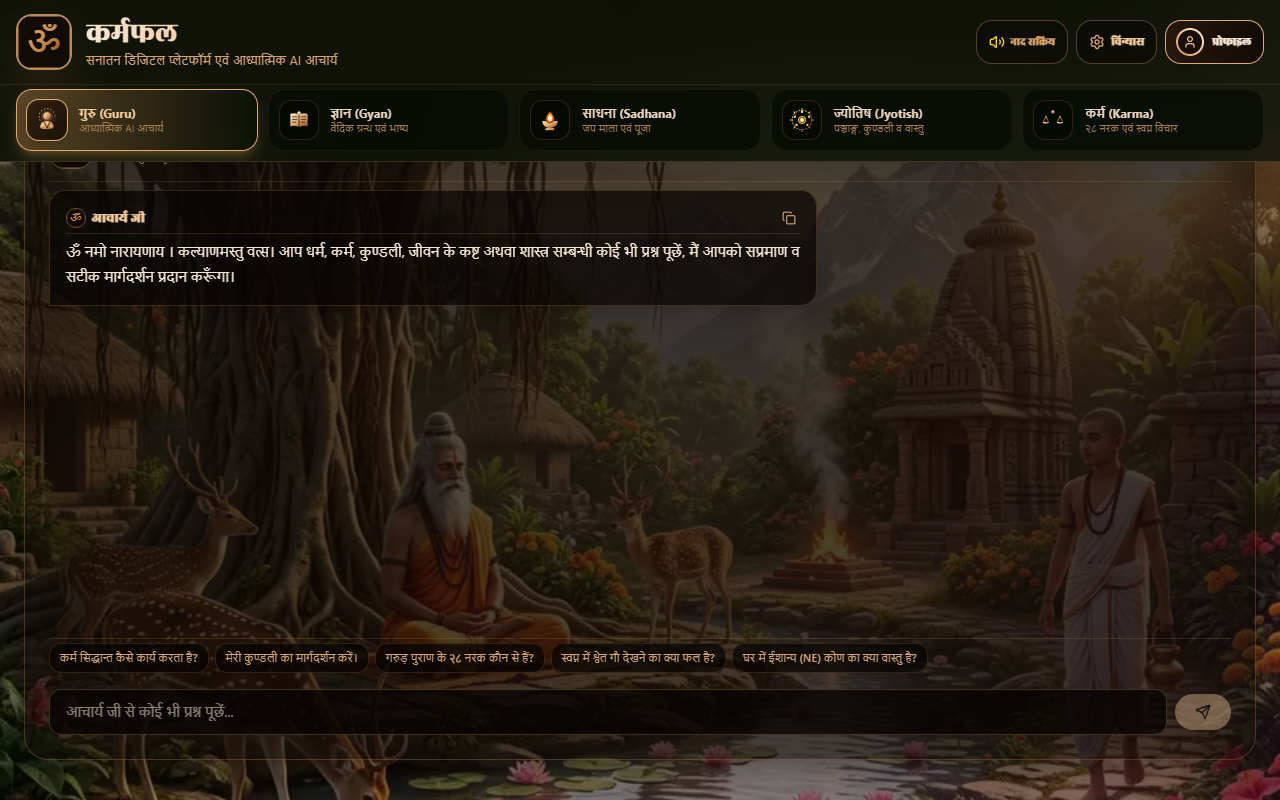
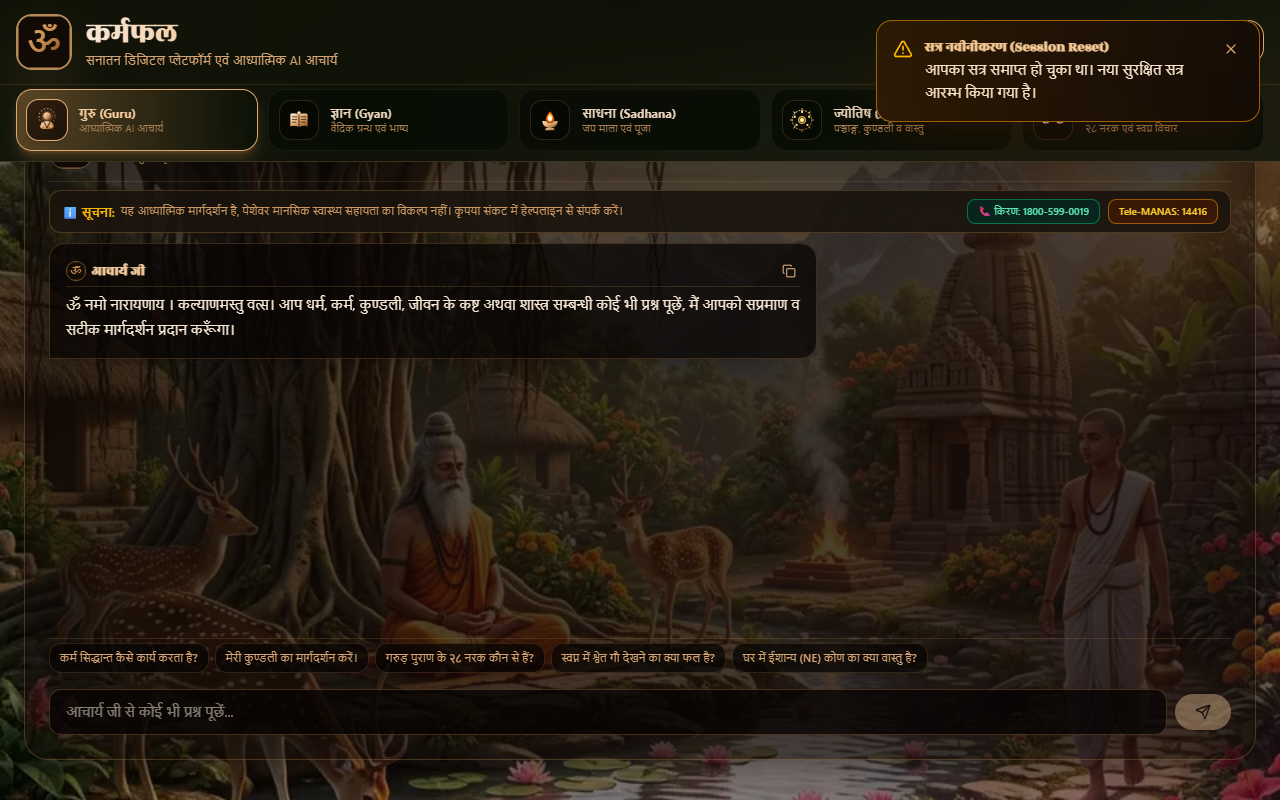
fix(ci): resolve i18n string regression and finalize verified scripture corpus

Changed region(s): [[0.0312, 0.2188, 0.9688, 0.4688], [0.6875, 0.0, 1.0, 0.1562]]

diff --git a/karmphal-web/src/components/TheologicalChatbot/SanatanAIAcharya.jsx b/karmphal-web/src/components/TheologicalChatbot/SanatanAIAcharya.jsx
@@ -2,10 +2,12 @@ import React, { useState, useRef, useEffect } from 'react';
 import { Send, Copy, Check, Trash2, Loader2 } from 'lucide-react';
 import { useChat } from '../../context/useChat';
 import { useToast, useConfirm } from '../../context/useToast';
+import { useTranslation } from '../../services/languageService';
 const AcharyaMarkdown = React.lazy(() => import('./AcharyaMarkdown'));
 import guruAvatar, { handleImageError, OM_FALLBACK_SVG } from '../../assets';
 
 export default function SanatanAIAcharya({ panchangData }) {
+  const { t } = useTranslation();
   const {
     messages,
     isLoading,
@@ -138,23 +140,23 @@ export default function SanatanAIAcharya({ panchangData }) {
         {/* Persistent Crisis & Professional Care Disclaimer Banner (Part D.4) */}
         <div className="bg-[#1a140d]/90 border border-[#C58B4E]/30 px-3 py-2 rounded-xl mb-2.5 flex flex-wrap items-center justify-between gap-2 text-[11px] text-[#E0A96D]/90 shadow-inner shrink-0">
           <div className="flex items-center gap-1.5 flex-1 min-w-[200px]">
-            <span className="text-amber-400 font-semibold text-xs shrink-0">ℹ सूचना:</span>
-            <span>यह आध्यात्मिक मार्गदर्शन है, पेशेवर मानसिक स्वास्थ्य सहायता का विकल्प नहीं। कृपया संकट में हेल्पलाइन से संपर्क करें।</span>
+            <span className="text-amber-400 font-semibold text-xs shrink-0">{t.crisisNoticePrefix}</span>
+            <span>{t.crisisDisclaimer}</span>
           </div>
           <div className="flex items-center gap-2 shrink-0">
             <a
               href="tel:18005990019"
               className="inline-flex items-center gap-1 px-2.5 py-1 rounded-lg bg-emerald-950/70 border border-emerald-500/50 text-emerald-300 font-medium hover:bg-emerald-900/90 transition-all active:scale-95 text-[10px]"
-              title="KIRAN 24/7 मानसिक स्वास्थ्य हेल्पलाइन पर कॉल करें (नि:शुल्क)"
+              title={t.kiranHelplineTitle}
             >
-              📞 किरण: 1800-599-0019
+              {t.kiranHelplineLabel}
             </a>
             <a
               href="tel:14416"
               className="inline-flex items-center gap-1 px-2.5 py-1 rounded-lg bg-amber-950/70 border border-amber-500/50 text-amber-300 font-medium hover:bg-amber-900/90 transition-all active:scale-95 text-[10px]"
-              title="Tele-MANAS राष्ट्रीय मानसिक स्वास्थ्य हेल्पलाइन"
+              title={t.teleManasTitle}
             >
-              Tele-MANAS: 14416
+              {t.teleManasLabel}
             </a>
           </div>
         </div>
@@ -241,7 +243,7 @@ export default function SanatanAIAcharya({ panchangData }) {
                         <span className="font-dharmik font-bold text-[#F3CA9D] text-xs sm:text-sm flex items-center gap-1.5">
                           {msg.isError ? (
                             <span className="text-amber-400 font-sans font-medium text-xs flex items-center gap-1">
-                              ⚠ सम्पर्क त्रुटि (Connection Notice)
+                              {t.connNotice}
                             </span>
                           ) : (
                             <>
@@ -257,7 +259,7 @@ export default function SanatanAIAcharya({ panchangData }) {
                               <span>आचार्य जी</span>
                               {msg.isCrisis && (
                                 <span className="ml-2 px-2 py-0.5 rounded text-[10px] bg-rose-500/20 text-rose-300 border border-rose-500/40">
-                                  सुरक्षा एवं सहायता
+                                  {t.safetySupportBadge}
                                 </span>
                               )}
                             </>
@@ -296,18 +298,18 @@ export default function SanatanAIAcharya({ panchangData }) {
                     {/* Quick Helpline Tap-to-Call Buttons for Crisis Flagged Responses */}
                     {msg.isCrisis && (
                       <div className="mt-3 pt-2.5 border-t border-rose-500/30 flex flex-wrap items-center gap-2">
-                        <span className="text-[11px] font-semibold text-rose-300">तत्काल नि:शुल्क सहायता:</span>
+                        <span className="text-[11px] font-semibold text-rose-300">{t.immediateHelpLabel}</span>
                         <a
                           href="tel:18005990019"
                           className="inline-flex items-center gap-1 px-2.5 py-1 rounded-lg bg-emerald-600 hover:bg-emerald-500 text-white font-medium text-[11px] shadow transition-all active:scale-95"
                         >
-                          📞 KIRAN: 1800-599-0019
+                          {t.kiranCallBtn}
                         </a>
                         <a
                           href="tel:14416"
                           className="inline-flex items-center gap-1 px-2.5 py-1 rounded-lg bg-sky-700 hover:bg-sky-600 text-white font-medium text-[11px] shadow transition-all active:scale-95"
                         >
-                          📞 Tele-MANAS: 14416
+                          {t.teleManasCallBtn}
                         </a>
                         <a
                           href="tel:112"

diff --git a/karmphal-backend/services/counseling.service.js b/karmphal-backend/services/counseling.service.js
@@ -60,29 +60,37 @@ function classifyEmotionAndIntent(userMessage) {
   // Direct, indirect, existential hopelessness, and hypothetical phrasing
   // -------------------------------------------------------------
   const crisisPatterns = [
-    // Direct suicidal phrases (English & Hinglish)
-    /\b(suicide|suicidal|kill\s*myself|end\s*my\s*life|ending\s*my\s*life|die\s*by\s*suicide)\b/i,
-    /\b(mar\s*jana\s*chahta|mar\s*jane\s*ka\s*man|jaan\s*de\s*du|jaan\s*le\s*lu|khudkushi|atmahatya|atma\s*hatya)\b/i,
+    // Direct suicidal phrases (English, Hindi, Hinglish with typos)
+    /\b(sui[cs]ides?|sui[cs]idal|sucide|suecide)\b/i,
+    /\b(kill\s*myself|end\s*my\s*life|ending\s*my\s*life|die\s*by\s*suicide)\b/i,
+    /\b(mar\s*jana\s*(?:chahta|chahti|h\b|hai)|marna\s*(?:chahta|chahti|h\b|hai)|mujhe\s*marna\s*h\b|mar\s*jane\s*ka\s*man|jaan\s*de\s*(?:du|dungi|dunga)|jaan\s*le\s*lu|khudkushi|atmahatya|atma\s*hatya)\b/i,
     
     // Devanagari direct phrases
-    /(आत्महत्या|आत्मघात|खुदकुशी|खुद\s*को\s*मार|मरना\s*चाहता|मरने\s*का\s*मन|जान\s*दे\s*दूँ|जान\s*ले\s*लूँ)/u,
+    /(आत्महत्या|आत्मघात|खुदकुशी|खुद\s*को\s*मार|मरना\s*चाहता|मरना\s*चाहती|मरने\s*का\s*मन|जान\s*दे\s*दूँ|जान\s*ले\s*लूँ|प्राण\s*त्याग\s*दूँ)/u,
     
-    // Lethal means / Self-harm methods
-    /\b(take\s*poison|swallow\s*pills|hang\s*myself|slit\s*my\s*wrist|jump\s*off|jump\s*from\s*bridge|jump\s*from\s*roof)\b/i,
-    /\b(zeher\s*kha|faansi\s*laga|chhat\s*se\s*kood|chhat\s*se\s*jump|nas\s*kaat)\b/i,
-    /(जहर\s*खा|फांसी\s*लगा|छत\s*से\s*कूद|नदी\s*में\s*कूद|नस\s*काट)/u,
+    // Lethal means / Self-harm methods (with 'the/a' and participle variants)
+    /\b(take\s*poison|swallow\s*pills|hang\s*myself|slit\s*my\s*wrists?)\b/i,
+    /\b(jump(?:ing)?\s*(?:off|from)\s*(?:a\s*|the\s*)?(?:bridge|roof|building|balcony|terrace|cliff|train|window))\b/i,
+    /\b(zeher\s*kha|faansi\s*laga|chhat\s*se\s*(?:kood|jump)|nas\s*kaat)\b/i,
+    /(जहर\s*खा|फांसी\s*लगा|छत\s*से\s*(?:कूद|छलांग)|नदी\s*में\s*कूद|नस\s*काट)/u,
 
-    // Existential hopelessness / Wanting life to end
+    // Existential hopelessness / Wanting life to end / Negations / Metaphors
     /\b(i\s*want\s*to\s*die|wish\s*i\s*were\s*dead|better\s*off(?:\s+\w+){0,4}\s+dead|no\s*reason\s*to\s*live|point\s*of\s*living|tired\s*of\s*living|tired\s*of\s*existing)\b/i,
-    /\b(jeene\s*ka(?:\s+\w+){0,3}\s+man\s*nahi|zindagi\s*khatam\s*karna|kya\s*fayda\s*is\s*zindagi|koi\s*jeene\s*ki\s*wajah\s*nahi|sab\s*khatam\s*kar\s*du)\b/i,
-    /(जीने\s*का(?:\s+[\u0900-\u097F]+){0,3}\s+मन\s*नहीं|ज़िन्दगी\s*खत्म\s*करना|जिंदगी\s*से\s*थक|जीने\s*की\s*कोई\s*वजह\s*नहीं|सब\s*समाप्त\s*कर\s*दूँ)/u,
+    /\b(can['’]?t\s*go\s*on(?:\s*anymore)?|can['’]?t\s*take\s*(?:this|it)\s*anymore|cannot\s*go\s*on|cannot\s*take\s*(?:this|it)\s*anymore)\b/i,
+    /\b(don['’]?t\s*(?:want|wish)\s*to\s*live|no\s*will\s*to\s*live|lost\s*(?:the\s*)?will\s*to\s*live)\b/i,
+    /\b(jeene\s*ka(?:\s+\w+){0,3}\s*man\s*nahi|zindagi\s*(?:khatam|khatm)|kya\s*fayda\s*is\s*zindagi|koi\s*(?:bhi\s*)?jeene\s*ki\s*wajah\s*nahi|koi\s*rasta\s*nahi(?:\s*\w+){0,3}\s*jeene)\b/i,
+    /\b(sab\s*(?:khatam|khatm|samapt)\s*k[a]?r\s*(?:du|raha|lunga|dena))\b/i,
+    /(जीने\s*का(?:\s+[\u0900-\u097F]+){0,3}\s+मन\s*नहीं|ज़िन्दगी\s*(?:खत्म|समाप्त)|जिंदगी\s*से\s*थक|जीने\s*की\s*कोई\s*वजह\s*नहीं|जीना\s*नहीं\s*चाहता)/u,
+    /(सब\s*(?:खत्म|समाप्त)\s*(?:कर\s*दूँ|कर\s*लूँगा|करूँगा|करने\s*जा\s*रहा)|मुझसे\s*नहीं\s*सहा\s*जाता|दर्द\s*नहीं\s*सहा\s*जाता)/u,
     /\b(nobody\s*will\s*miss\s*me|i\s*am\s*a\s*burden|want\s*to\s*disappear\s*forever|cannot\s*take\s*this\s*pain\s*anymore)\b/i,
+    /\b(hamesha\s*ke\s*liye\s*so\s*jana|sleep\s*forever\s*and\s*never\s*wake|is\s*sharir\s*se\s*mukti\s*chahta)\b/i,
+    /(हमेशा\s*के\s*लिए\s*सो\s*जाना|शरीर\s*से\s*मुक्ति\s*चाहता)/u,
 
     // Hypothetical & Philosophical queries on self-harm
-    /\b(if\s*(?:i|someone)\s*(?:commits?\s*suicide|ends?\s*(?:my|their)\s*life))\b/i,
-    /\b(agar\s*(?:main|koi)\s*(?:atmahatya|suicide|mar\s*jaye))\b/i,
+    /\b(if\s*(?:i|someone)\s*(?:commits?\s*sui[cs]ide|ends?\s*(?:my|their)\s*life))\b/i,
+    /\b(agar\s*(?:main|koi)\s*(?:atmahatya|sui[cs]ide|mar\s*jaye))\b/i,
     /(अगर\s*(?:कोई|मैं)\s*(?:आत्महत्या|खुदकुशी|प्राण\s*त्याग))/u,
-    /\b(is\s*it\s*(?:a\s*sin|wrong)\s*to\s*kill\s*oneself|what\s*happens\s*to\s*soul\s*after\s*suicide)\b/i,
+    /\b(is\s*it\s*(?:a\s*sin|wrong)\s*to\s*kill\s*oneself|what\s*happens\s*to\s*soul\s*after\s*sui[cs]ide)\b/i,
     /(आत्महत्या\s*करने\s*पर\s*क्या\s*होता|खुदकुशी\s*पाप\s*है\s*क्या)/u,
 
     // Threat to harm others

diff --git a/karmphal-backend/tests/counseling.service.test.js b/karmphal-backend/tests/counseling.service.test.js
@@ -59,6 +59,50 @@ describe('Scripture-Grounded Counseling Service Unit Tests', () => {
       });
     });
 
+    describe('Adversarial Self-Harm & False-Positive Regression Suite (18 Scenarios)', () => {
+      const adversarialCases = [
+        // 1. Typos
+        { id: 'TYPO-1', input: 'mujhe marna h bs', expectedCrisis: true },
+        { id: 'TYPO-2', input: 'zindagi khatm krne ka man kr raha h ab', expectedCrisis: true },
+        { id: 'TYPO-3', input: 'suiside krne ki soch rha hu', expectedCrisis: true },
+
+        // 2. Negated statements / Complex expressions
+        { id: 'NEG-1', input: "I don't want to die but I can't go on anymore", expectedCrisis: true },
+        { id: 'NEG-2', input: "I don't wish to live like this anymore, everything hurts", expectedCrisis: true },
+        { id: 'NEG-3', input: "Mujhe marna to nahi tha par ab koi rasta nahi dikh raha jeene ka", expectedCrisis: true },
+
+        // 3. Metaphorical language
+        { id: 'META-1', input: 'I want to disappear forever and never wake up', expectedCrisis: true },
+        { id: 'META-2', input: 'Bas hamesha ke liye so jana chahta hu taaki sab khatam ho jaye', expectedCrisis: true },
+        { id: 'META-3', input: 'Is sharir se mukti chahta hu hamesha ke liye, dard seh nahi sakta', expectedCrisis: true },
+
+        // 4. Genuine spiritual question with buried crisis signal
+        { id: 'BURIED-1', input: 'गीता में मोक्ष का क्या विधान है? क्योंकि अब मेरा इस दुनिया में दम घुट रहा है और मैं सब खत्म करने जा रहा हूँ।', expectedCrisis: true },
+        { id: 'BURIED-2', input: 'What does Krishna say about karma? I feel like jumping from the roof because my karma is too dark.', expectedCrisis: true },
+
+        // 5. Gradual escalation across conversation (simulated inputs)
+        { id: 'CONV-STEP-1', input: 'जीवन में बहुत कठिनाइयाँ आ रही हैं।', expectedCrisis: false },
+        { id: 'CONV-STEP-2', input: 'हर तरफ से निराशा ही हाथ लग रही है, कुछ समझ नहीं आ रहा।', expectedCrisis: false },
+        { id: 'CONV-STEP-3', input: 'अब मुझसे नहीं सहा जाता, आज रात सब समाप्त कर लूँगा।', expectedCrisis: true },
+
+        // 6. False-Positive risks (Academic/philosophical questions about death/mortality - MUST NOT trigger crisis!)
+        { id: 'FP-1', input: 'गीता में मृत्यु के बारे में क्या कहा गया है?', expectedCrisis: false },
+        { id: 'FP-2', input: 'What is the concept of death and reincarnation in Katha Upanishad?', expectedCrisis: false },
+        { id: 'FP-3', input: 'महाभारत के युद्ध में इतने लोगों की मृत्यु क्यों हुई? क्या यह नियति थी?', expectedCrisis: false },
+        { id: 'FP-4', input: 'गरुड़ पुराण में यमलोक और मृत्यु के पश्चात आत्मा की यात्रा का क्या वर्णन है?', expectedCrisis: false }
+      ];
+
+      it.each(adversarialCases)('$id: accurately handles "$input" (expectedCrisis: $expectedCrisis)', ({ input, expectedCrisis }) => {
+        const result = counselingService.classifyEmotionAndIntent(input);
+        expect(result.isCrisis).toBe(expectedCrisis);
+        if (expectedCrisis) {
+          expect(result.category).toBe('self-harm-risk');
+        } else {
+          expect(result.category).not.toBe('self-harm-risk');
+        }
+      });
+    });
+
     describe('Non-Crisis Mental Health & Emotional Categories (Part D.5)', () => {
       it('correctly classifies anxiety/despair without triggering crisis', () => {
         const phrases = [

diff --git a/karmphal-web/src/services/languageService.js b/karmphal-web/src/services/languageService.js
@@ -84,6 +84,17 @@ export const TRANSLATIONS = {
     detectingGpsText: 'जीपीएस स्थान प्राप्त किया जा रहा है...',
     copyAnswer: 'उत्तर प्रतिलिपि बनाएँ',
     voiceSpeak: 'वाणी द्वारा श्रवण करें',
+    crisisNoticePrefix: 'ℹ सूचना:',
+    crisisDisclaimer: 'यह आध्यात्मिक मार्गदर्शन है, पेशेवर मानसिक स्वास्थ्य सहायता का विकल्प नहीं। कृपया संकट में हेल्पलाइन से संपर्क करें।',
+    kiranHelplineLabel: '📞 किरण: 1800-599-0019',
+    kiranHelplineTitle: 'KIRAN 24/7 मानसिक स्वास्थ्य हेल्पलाइन पर कॉल करें (नि:शुल्क)',
+    teleManasLabel: 'Tele-MANAS: 14416',
+    teleManasTitle: 'Tele-MANAS राष्ट्रीय मानसिक स्वास्थ्य हेल्पलाइन',
+    connNotice: '⚠ सम्पर्क त्रुटि (Connection Notice)',
+    safetySupportBadge: 'सुरक्षा एवं सहायता',
+    immediateHelpLabel: 'तत्काल नि:शुल्क सहायता:',
+    kiranCallBtn: '📞 KIRAN: 1800-599-0019',
+    teleManasCallBtn: '📞 Tele-MANAS: 14416',
 
     // Gyan Section
     gyanHeroBadge: 'द्वितीय विभाग: ज्ञान',
@@ -248,6 +259,17 @@ export const TRANSLATIONS = {
     detectingGpsText: 'जीपीएसस्थानं प्राप्यते...',
     copyAnswer: 'उत्तरं प्रतिलिपीकुरु',
     voiceSpeak: 'वाण्या शृणोतु',
+    crisisNoticePrefix: 'ℹ सूचना:',
+    crisisDisclaimer: 'इदम् आध्यात्मिकं मार्गदर्शनमस्ति, न तु व्यावसायिक मानसिक स्वास्थ्य साहाय्यस्य विकल्पः। सङ्कटे हेल्पलाइन सेवां सम्पर्कं कुर्वन्तु।',
+    kiranHelplineLabel: '📞 किरण: १८००-५९९-००१९',
+    kiranHelplineTitle: 'KIRAN मानसिक स्वास्थ्य हेल्पलाइन सेवां सम्पृच्छतु (निःशुल्कम्)',
+    teleManasLabel: 'Tele-MANAS: १४४१६',
+    teleManasTitle: 'Tele-MANAS राष्ट्रिय मानसिक स्वास्थ्य हेल्पलाइन',
+    connNotice: '⚠ सम्पर्क त्रुटिः (Connection Notice)',
+    safetySupportBadge: 'सुरक्षा साहाय्यं च',
+    immediateHelpLabel: 'सद्यः निःशुल्क साहाय्यम्:',
+    kiranCallBtn: '📞 KIRAN: १८००-५९९-००१९',
+    teleManasCallBtn: '📞 Tele-MANAS: १४४१६',
 
     gyanHeroBadge: 'द्वितीयः विभागः: ज्ञानम्',
     gyanHeroSubBadge: 'श्रुति-स्मृति-भाष्य-भाण्डारः',

diff --git a/karmphal-backend/database.js b/karmphal-backend/database.js
@@ -254,21 +254,25 @@ const migrations = [
   }
 ];
 
-// Helper to seed canonical scriptures if table is empty
-const seedScriptures = (targetDb = db) => {
+// Helper to seed canonical scriptures if table is empty (or when forced)
+const seedScriptures = (targetDb = db, force = false) => {
   try {
     const tableExists = targetDb.prepare("SELECT name FROM sqlite_master WHERE type='table' AND name='ScriptureVerses'").get();
     if (!tableExists) return;
 
     const countRow = targetDb.prepare('SELECT COUNT(*) AS count FROM ScriptureVerses').get();
-    if (countRow && countRow.count > 0) return; // Already seeded
+    if (countRow && countRow.count > 0 && !force) return;
 
     const seedFile = path.resolve(__dirname, 'data', 'scriptures.seed.json');
     if (!fs.existsSync(seedFile)) return;
 
+    if (force) {
+      targetDb.prepare('DELETE FROM ScriptureVerses').run();
+    }
+
     const verses = JSON.parse(fs.readFileSync(seedFile, 'utf8'));
     const insertStmt = targetDb.prepare(`
-      INSERT OR IGNORE INTO ScriptureVerses (source, reference, sanskrit_text, hindi_translation, tags, verified_source)
+      INSERT OR REPLACE INTO ScriptureVerses (source, reference, sanskrit_text, hindi_translation, tags, verified_source)
       VALUES (?, ?, ?, ?, ?, ?)
     `);
 

diff --git a/README.md b/README.md
@@ -96,9 +96,19 @@ karmphal/
 - **संवाद आचार्य चैट ([`SanatanAIAcharya.jsx`](file:///c:/Users/rajen/AndroidStudioProjects/karmphal/karmphal-web/src/components/TheologicalChatbot/SanatanAIAcharya.jsx))**:
   - सुरक्षित बैकएंड प्रॉक्सी के माध्यम से जेमिनी AI से संवाद।
   - `react-markdown` + `remark-gfm` + `rehype-sanitize` द्वारा शुद्ध देवनागरी/संस्कृत रेंडरिंग।
+  - **शास्त्र-सम्मत आध्यात्मिक परामर्श एवं संकट सुरक्षा (Scripture-Grounded Counseling & Crisis Layer)**:
+    - प्रामाणिक श्लोकों के आधार पर ग्राउंडेड उत्तर और उद्धरण (Citations)।
+    - निरंतर दृश्यमान (persistent) संकट परामर्श डिस्क्लेमर तथा प्रत्यक्ष 'कॉल-टू-हेल्पलाइन' बटन्स (KIRAN: `1800-599-0019`, Tele-MANAS: `14416`, `112`)।
+    - ऑफ़लाइन या नेटवर्क त्रुटि होने पर पारदर्शी और स्पष्ट तकनीकी सन्देश (कोई भ्रामक आध्यात्मिक उत्तर नहीं)।
   - सेशन एवं सर्वर-साइड डेटाबेस हिस्ट्री परसिस्टेंस।
 
 ### 2. `karmphal-backend` (सुरक्षित एवं सुदृढ़ API सर्वर)
+- **शास्त्र-आधारित आध्यात्मिक काउंसलिंग इंजन ([`counseling.service.js`](file:///c:/Users/rajen/AndroidStudioProjects/karmphal/karmphal-backend/services/counseling.service.js))**:
+  - **प्रामाणिक शास्त्र ज्ञानकोश (Curated Scripture Knowledge Base)**: 51 गीता प्रेस एवं उपनिषद् श्लोक (`ScriptureVerses` तालिका) जो चिंता, शोक, धर्मसंकट, क्रोध, आत्म-हानि जोखिम आदि टैग्स से अनुक्रमित हैं।
+  - **तीव्र इन-प्रोसेस भावना व मंतव्य वर्गीकरण (Emotion & Intent Classifier)**: शून्य AI कॉल ओवरहेड के साथ 1-10ms में यूज़र संदेश का वर्गीकरण (`anxiety/despair`, `grief`, `duty-conflict`, `anger/injustice`, `self-harm-risk`, `general-question`)।
+  - **एंटी-मतिभ्रम सत्यापन (Anti-Hallucination Citation Validator)**: जेमिनी द्वारा उद्धृत श्लोक सन्दर्भों का सत्यापन कर काल्पनिक या अप्रमाणित श्लोक संख्याओं को स्वतः निष्कासित (strip/sanitize) करना।
+  - **अनिवार्य संकट सुरक्षा स्तर (Critical Crisis Safety Layer)**: आत्म-हानि, अवसाद या निराशा के प्रत्यक्ष/परोक्ष/काल्पनिक संकेतों पर स्वतः आपातकालीन राष्ट्रीय मानसिक स्वास्थ्य हेल्पलाइन (KIRAN `1800-599-0019`, Tele-MANAS `14416`, Vandrevala, `112`) जोड़ना।
+  - **आत्मिक यात्रा एवं पुण्य संचय (Wellbeing Journey Ledger)**: प्रत्येक आध्यात्मिक संवाद चिंतन पर साधक को +5 पुण्य अंक और निजी `WellbeingJourneys` इतिहास।
 - **प्रमाणीकरण (Authentication)**:
   - बिना किसी बाहरी पासवर्ड निर्भरता के तात्कालिक गेस्ट सेशन एवं JWT टोकन जेनरेशन (HS256, 30-day expiry)।
   - रिफ्रेश टोकन रोटेशन (SHA-256 हैशेड स्टोरेज) और ऑटो-रिफ्रेश सिंगल-फ्लाइट मैकेनिज्म।
